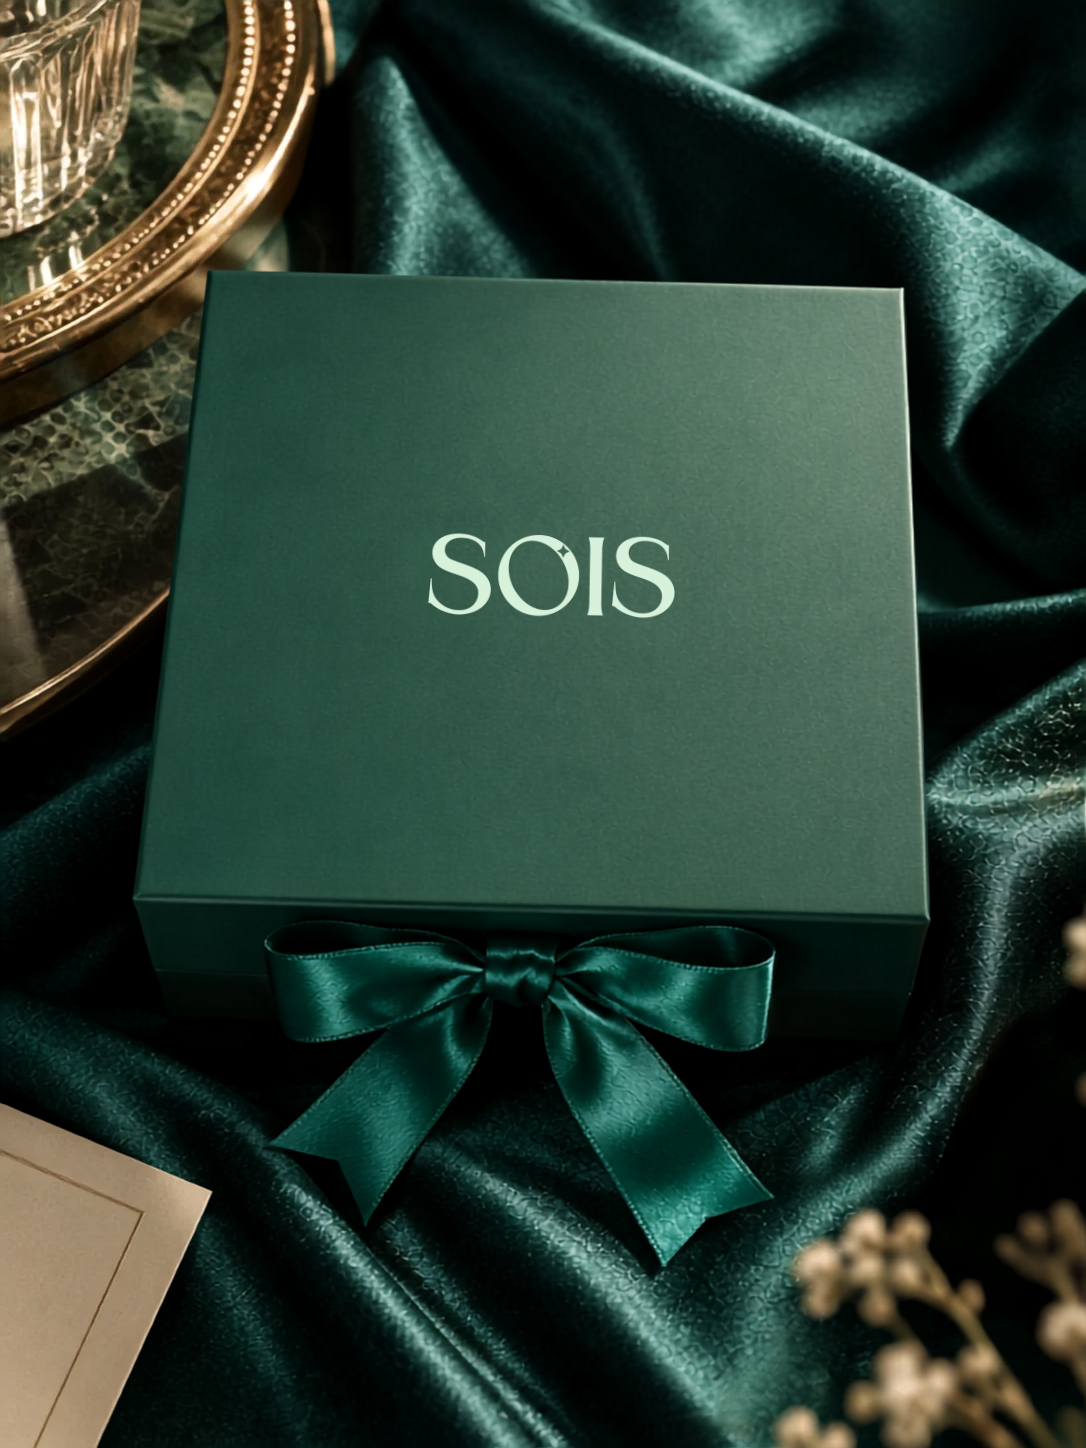
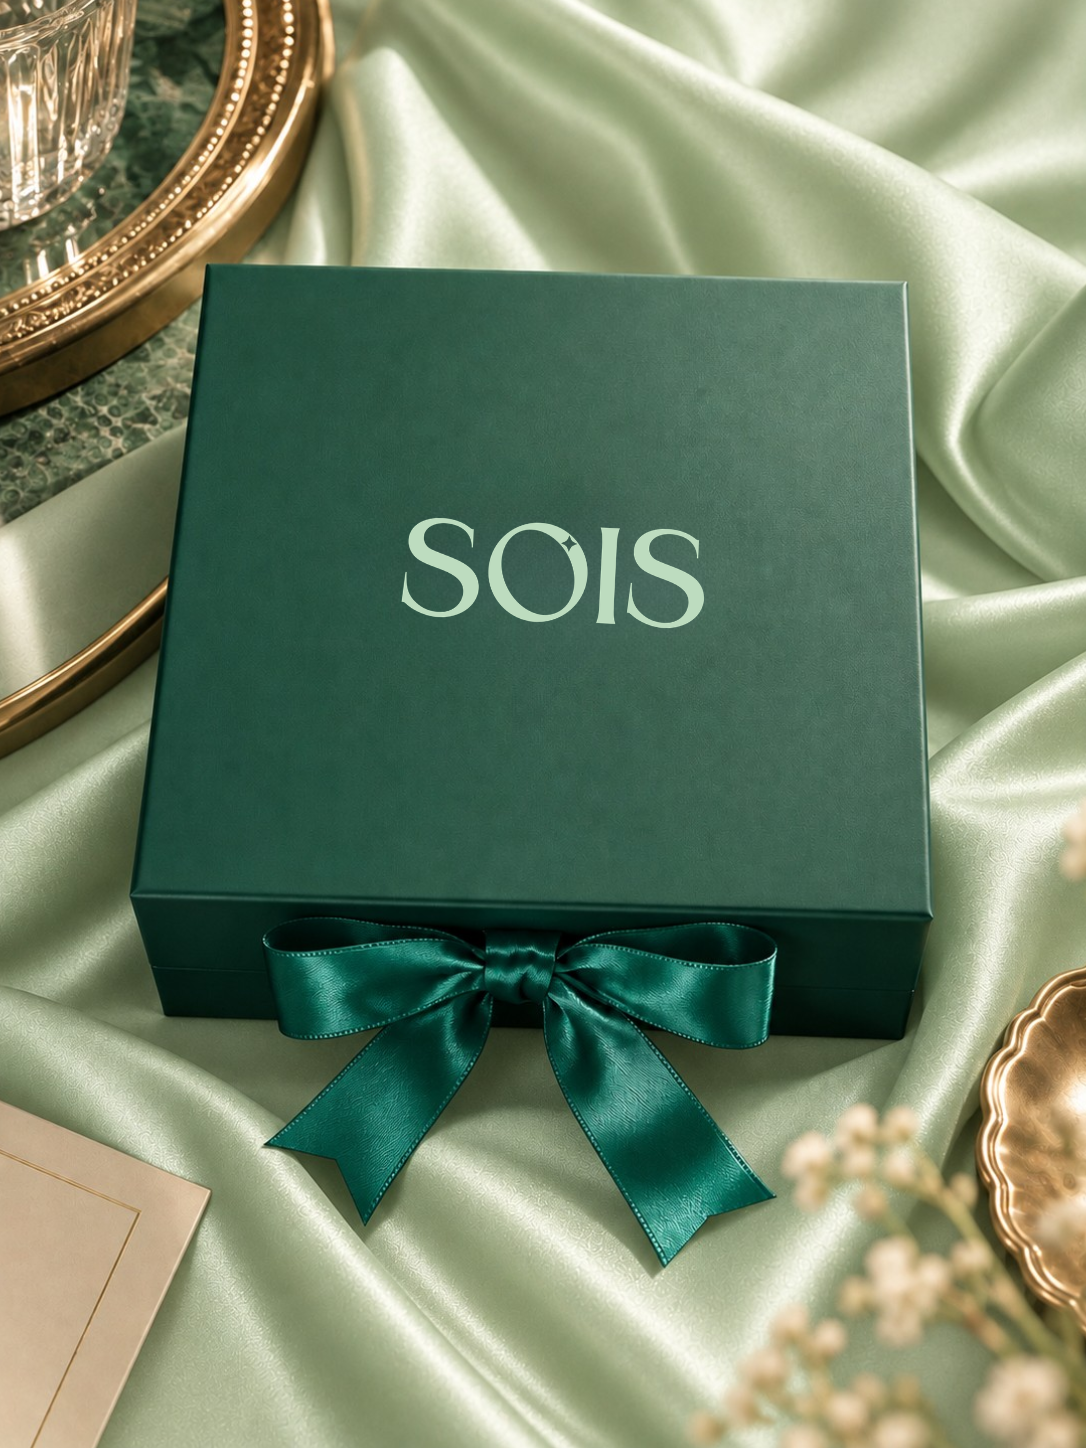
Fix sale badge overriding explicit tags, round displayed prices, update gift box thumbnail
- derivedBadge now checks explicit product tags before falling back to
  automatic is_featured/discount/recency signals, so bulk-editing a
  product's tag to "new" no longer gets stuck showing "Sale" forever
  when discount_percent is still set.
- formatPrice now rounds to whole rupees instead of showing .00 decimals.
- Swap the Surprise/Gift Box category thumbnail for the new product shot.

diff --git a/src/lib/api/mappers.ts b/src/lib/api/mappers.ts
@@ -97,21 +97,26 @@ function derivedBadge(opts: {
   createdAt: string;
   tags?: string[];
 }): UIProduct["badge"] {
-  // Deliberate merchandising signals (staff marked it a bestseller via
-  // is_featured or an explicit tag, it's discounted) take priority over the
-  // generic recency heuristic below — otherwise a freshly-seeded catalogue,
-  // where every product is "new" for its first 30 days, would show "New" on
-  // every card and "Best Seller" / "Sale" would never surface at all.
-  if (opts.isFeatured || hasTag(opts.tags, TAG_ALIASES.bestSeller))
-    return "Best Seller";
-  if (opts.onSale || hasTag(opts.tags, TAG_ALIASES.sale)) return "Sale";
+  // An explicit tag set by staff (e.g. via bulk edit) is the strongest
+  // signal and must win over the automatic price/recency heuristics below —
+  // otherwise re-tagging a discounted product "new" would silently keep
+  // showing "Sale" forever, since discount_percent never clears itself.
+  if (hasTag(opts.tags, TAG_ALIASES.bestSeller)) return "Best Seller";
+  if (hasTag(opts.tags, TAG_ALIASES.sale)) return "Sale";
+  if (hasTag(opts.tags, TAG_ALIASES.new)) return "New";
 
-  // "New" — either an explicit tag or the recency fallback.
+  // No explicit tag — fall back to automatic merchandising signals
+  // (is_featured / discount / recency), otherwise a freshly-seeded
+  // catalogue, where every product is "new" for its first 30 days, would
+  // show "New" on every card and "Best Seller" / "Sale" would never surface.
+  if (opts.isFeatured) return "Best Seller";
+  if (opts.onSale) return "Sale";
+
   const created = new Date(opts.createdAt).getTime();
   const isRecent =
     Number.isFinite(created) &&
     Date.now() - created < 30 * 24 * 60 * 60 * 1000;
-  if (isRecent || hasTag(opts.tags, TAG_ALIASES.new)) return "New";
+  if (isRecent) return "New";
   return null;
 }
 

diff --git a/src/lib/catalog.ts b/src/lib/catalog.ts
@@ -813,9 +813,8 @@ export function sortProducts(products: Product[], sort: SortKey): Product[] {
 }
 
 export function formatPrice(value: number): string {
-  return `₹${value.toLocaleString("en-IN", {
-    minimumFractionDigits: 2,
-    maximumFractionDigits: 2,
+  return `₹${Math.round(value).toLocaleString("en-IN", {
+    maximumFractionDigits: 0,
   })}`;
 }
 
